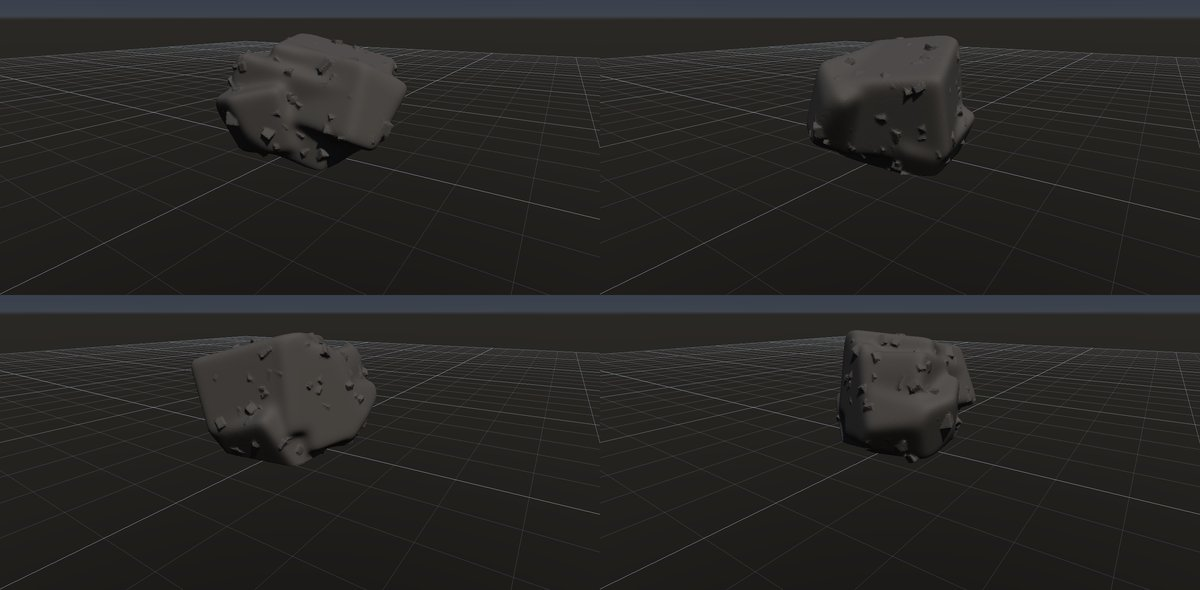
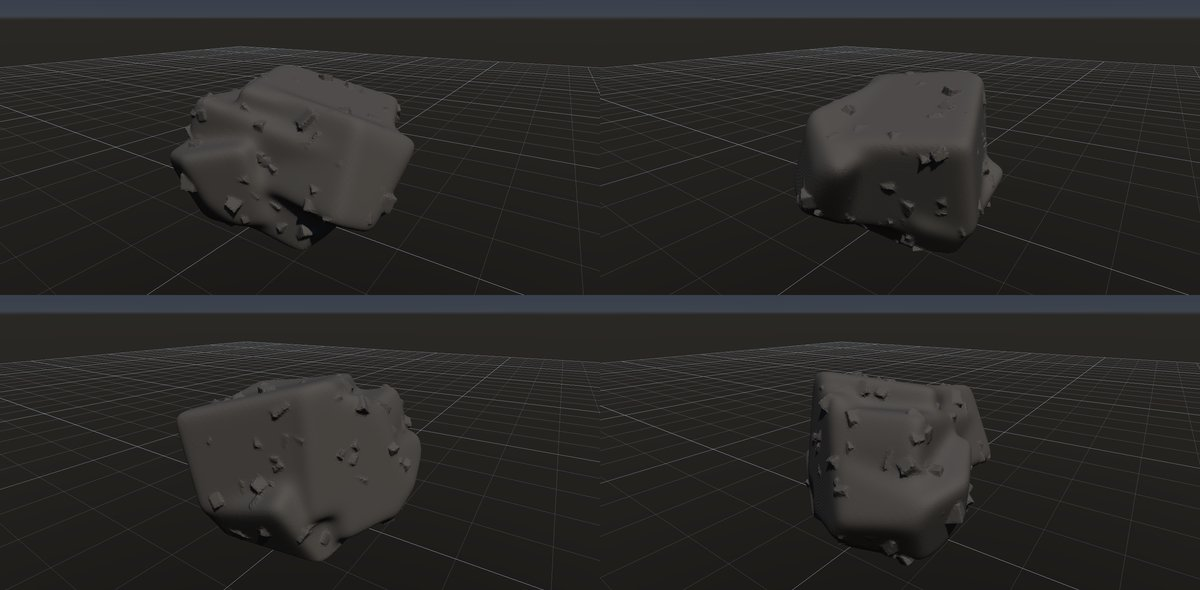
fix: 全体表示で原点ではなくメッシュの範囲の中心を見る
--frame-all と A キーの全体表示が原点を注視点にしていたので、接地した背の高い岩の頂が
画面から切れていた。範囲の中心とそこからの半径で表示する。研究ページの画像を撮り直した。

diff --git a/src/renderer/PreviewRenderer.cpp b/src/renderer/PreviewRenderer.cpp
@@ -739,9 +739,21 @@ bool PreviewRenderer::UploadMeshScene(rhi::Device& device, const MeshScene& inpu
             minimum.y = std::min(minimum.y, vertex.position.y);
             minimum.z = std::min(minimum.z, vertex.position.z);
             maximum.x = std::max(maximum.x, vertex.position.x);
+            maximum.y = std::max(maximum.y, vertex.position.y);
             maximum.z = std::max(maximum.z, vertex.position.z);
         }
     }
+    // 全体表示の注視点と半径: 範囲の中心と、そこから最も遠い頂点まで。接地した岩は原点より上にあるので、
+    // 原点を注視点にすると背の高い形の頂が画面から切れる。
+    m_frameCenter = hasVertex ? XMFLOAT3{(minimum.x + maximum.x) * 0.5f, (minimum.y + maximum.y) * 0.5f,
+                                         (minimum.z + maximum.z) * 0.5f}
+                              : XMFLOAT3{0.0f, 0.0f, 0.0f};
+    m_frameRadius = 0.1f;
+    for (const auto& mesh : m_meshScene.meshes)
+        for (const auto& vertex : mesh.geometry.vertices)
+            m_frameRadius = std::max(m_frameRadius, std::hypot(vertex.position.x - m_frameCenter.x,
+                                                               vertex.position.y - m_frameCenter.y,
+                                                               vertex.position.z - m_frameCenter.z));
     m_humanScaleAnchor = hasVertex
         ? XMFLOAT3{maximum.x + 0.65f, minimum.y, (minimum.z + maximum.z) * 0.5f}
         : XMFLOAT3{3.0f, 0.0f, 0.0f};

diff --git a/src/renderer/PreviewRenderer.h b/src/renderer/PreviewRenderer.h
@@ -292,6 +292,9 @@ public:
     // シーンを包む球の半径（原点中心）。カメラの Frame() が使う。シーンが無ければ作業グリッドの半径。
     // 配置したモデル（SetExtraSceneRadius）も含む。
     float BoundingRadius() const;
+    // 全体表示（A キー・--frame-all）の注視点と半径。メッシュの範囲の中心を基準にする（シーンが無ければ原点と作業グリッド）。
+    DirectX::XMFLOAT3 FrameCenter() const { return m_meshSceneEnabled ? m_frameCenter : DirectX::XMFLOAT3{0.0f, 0.0f, 0.0f}; }
+    float FrameRadius() const { return m_meshSceneEnabled ? std::max(m_frameRadius, m_extraSceneRadius) : BoundingRadius(); }
     // メッシュシーンの外で描くもの（配置したモデル）。本描画の不透明メッシュの直後と、
     // 各シャドウカスケードで呼ぶ。シェーディング表示（DebugView::Shaded / Clay 以外は呼ばない）でだけ描く。
     std::function<void(ID3D12GraphicsCommandList*, const SceneDrawContext&)> drawSceneExtras;
@@ -401,6 +404,8 @@ private:
     std::vector<SceneMaterial> m_sceneMaterials;
     bool m_meshSceneEnabled = false;
     float m_meshSceneRadius = 0.1f;
+    DirectX::XMFLOAT3 m_frameCenter{0.0f, 0.0f, 0.0f};
+    float m_frameRadius = 0.1f;
     float m_extraSceneRadius = 0.0f;
     std::vector<OverlayLineSet> m_overlayLines;
     bool m_meshSceneHidden = false;

diff --git a/src/app/ApplicationViewport.cpp b/src/app/ApplicationViewport.cpp
@@ -533,9 +533,11 @@ void Application::HandleCameraInput(renderer::PreviewRenderer& preview, bool ite
             SelectedMeshFocusTarget(target);
         camera.Focus(target);
     } else if (ImGui::IsKeyPressed(ImGuiKey_A, false)) {
-        camera.Frame(kMeshCenter, includeReferenceGrid
-            ? std::max(preview.BoundingRadius(), renderer::PreviewRenderer::kReferenceGridRadius)
-            : preview.BoundingRadius());
+        // 範囲の中心を見る。作業グリッドも入れるときは、グリッドが原点中心なので従来どおり原点を見る。
+        if (includeReferenceGrid)
+            camera.Frame(kMeshCenter, std::max(preview.BoundingRadius(), renderer::PreviewRenderer::kReferenceGridRadius));
+        else
+            camera.Frame(preview.FrameCenter(), preview.FrameRadius());
     }
 }
 

diff --git a/src/app/Application.cpp b/src/app/Application.cpp
@@ -380,7 +380,7 @@ int Application::Run() {
 
         // 開発用: グラフの評価が終わっていれば、形全体が入るようにカメラを引く。
         if (m_options.frameAll && !m_pieceUpdating && m_renderer.HasMeshScene())
-            m_renderer.GetCamera().Frame({0.0f, 0.0f, 0.0f}, m_renderer.BoundingRadius());
+            m_renderer.GetCamera().Frame(m_renderer.FrameCenter(), m_renderer.FrameRadius());
         // 開発用: 起動引数のカメラの向き（読み込んだシーンの視点より優先する）。
         if (!std::isnan(m_options.cameraYawDegrees) || !std::isnan(m_options.cameraPitchDegrees)) {
             renderer::CameraState state = m_renderer.GetCamera().State();

diff --git a/docs/research/rocks.md b/docs/research/rocks.md
@@ -1,7 +1,7 @@
 # 岩の研究ページ
 
 作成日時: 2026-10-01 12:50
-更新日時: 2026-10-01 18:20
+更新日時: 2026-10-01 18:45
 
 「あらゆる種類の岩を作れること」を目標に、岩の種類ごとに今の出来・作り方・課題・改善の履歴を残すページ。一つずつ改善していく。足りないノードの整理（G 番号）は [岩の種類の網羅](../reference/rock-catalog.md)、組み方の手順は [skill](../../.claude/skills/rock-graph/SKILL.md)。
 
@@ -175,7 +175,7 @@
 - レシピ: [`granite-buttress`](../../examples/ai-recipes/granite-buttress.rockgraph)
 - 手本: 木曽駒ケ岳（宝剣岳〜千畳敷）の花崗岩の岩峰。ユーザーが撮った写真（`docs/references/DSC08761`・`DSC08749`。Git の対象外）。急傾斜の節理で縦長の塔に割れ、凍結破砕で尖る。塔は同じ向きに傾き、根元でつながる。
 - 作り方: 成因どおりに組む。大きめの岩体（Base Shape の箱）を、点の Voronoi で不規則な多面体のブロックに割る。分割の座標系を主な節理の向き（76°）に回し、伸長 [2.5, 1, 1.6] で節理面の方向に細長く・節理面に垂直に薄くする。Scatter Points の密度のむらで割れの多い帯と割れの少ない芯を作り、Piece Select の Peel（接地・大きさの効き）で外周の小さなブロックから抜き取る（凍結破砕。底からは欠かず、下のブロックに載っていない片は落ちる）。Piece Transform のばらつきでブロックを少しずつずらして傾け、To Volume でまとめる（ずれた隙間が段違いの継ぎ目になる）。局所の欠け・小面のノイズ・角の摩耗。割れの少ない芯が 1 本の塔として残る。岩体は縦長の箱（10 × 15 × 8 m）、塔は高さ約 12.6 m。山グラフで斜面に撒く部品として使う想定。
-- 課題: 塔が 1 本だけで、写真のように複数の塔が根元でつながる形にはなっていない（むらの芯を 2～3 個にしたい）。微小な空洞が 4 つ残る。`rock_shot.py` の撮影で、背の高い形の頂が画面の上で切れる。
+- 課題: 塔が 1 本だけで、写真のように複数の塔が根元でつながる形にはなっていない（むらの芯を 2～3 個にしたい）。微小な空洞が 4 つ残る。
 - 履歴:
   - 2026-10-01 初版。縦長の塊 1 つを割れ目で塔に分ける案は、溝が格子に並んでレンガの柱になった（上が細らない）。全体を大きな平面で切ると高さが半分に縮んだ（水平に近い面が頂を削る）。塔を別々に作って和にする案に変えた。根元の塊を無くすと塔どうしが溶けて 1 つの塊になり、残して埋める形にした。割れ目は noise を上げると点線に途切れ、variation を下げると石積みの格子になるので、主な節理だけ幅を持たせ、横の節理は細く浅くした。
   - 2026-10-01 Volume Crack に有限の割れ目（長さ・割合・段違い）を足して使った。節理が途中で止まって段違いにずれ、格子の感じが減った。主な節理は間隔 1.1 → 0.7 m・長さ 0.3・割合 0.55・段違い 0.8、横の節理は長さ 0.15・割合 0.35。

diff --git a/docs/changelog.md b/docs/changelog.md
@@ -1,10 +1,11 @@
 # Changelog
 
 作成日時: 2026-09-20 20:05
-更新日時: 2026-10-01 18:20
+更新日時: 2026-10-01 18:45
 
 ## 未リリース
 
+- ビューポートの全体表示（A キー）と起動引数 `--frame-all` が、原点ではなくメッシュの範囲の中心を見るようにした。接地した背の高い岩の頂が画面から切れていた。作業グリッドも入れる全体表示は従来どおり原点を見る。
 - Scatter Points に「密度のむら」「むらの細かさ」を足した。大きなノイズで点を間引き、割れの多い帯（小さな片）と割れの少ない芯（大きな片）を作る。Piece Select の Peel に「大きさの効き」を足した（小さな片ほど先に欠ける）。どちらも既定 0 で従来と同じ。`granite-buttress` は割れの少ない芯が 1 本の塔として残る形にした。
 - 節理で岩体をブロックに割れるようにした。Voronoi Fracture に Planes 入力を足し、構造面の系統で凸な Mesh を節理のブロックに割る（隣接情報が揃うので Peel が使える）。Parallel Planes に Planes 入力を足し、別の Parallel Planes を繋ぐと系統を足して渡す（節理系 1 → 2 → 3）。Volume Crack は連結した全系統を 1 回で彫る（1 系統なら従来と同じ結果）。仕様は [Parallel Planes](reference/parallel-planes.md#系統の連結2026-10-01-追加)、[Voronoi とピース操作](reference/voronoi-pieces.md#構造面で割る2026-10-01-追加)。
 - Piece Select の Peel に「接地」を足した。下向きの外面からは欠かず、下のブロックに載っていない片は支えを失って落ちる（地面から生えた岩峰・露頭・崖）。既定はオフ。仕様は [ピースの侵食](reference/piece-erosion.md#接地2026-10-01-追加)。
